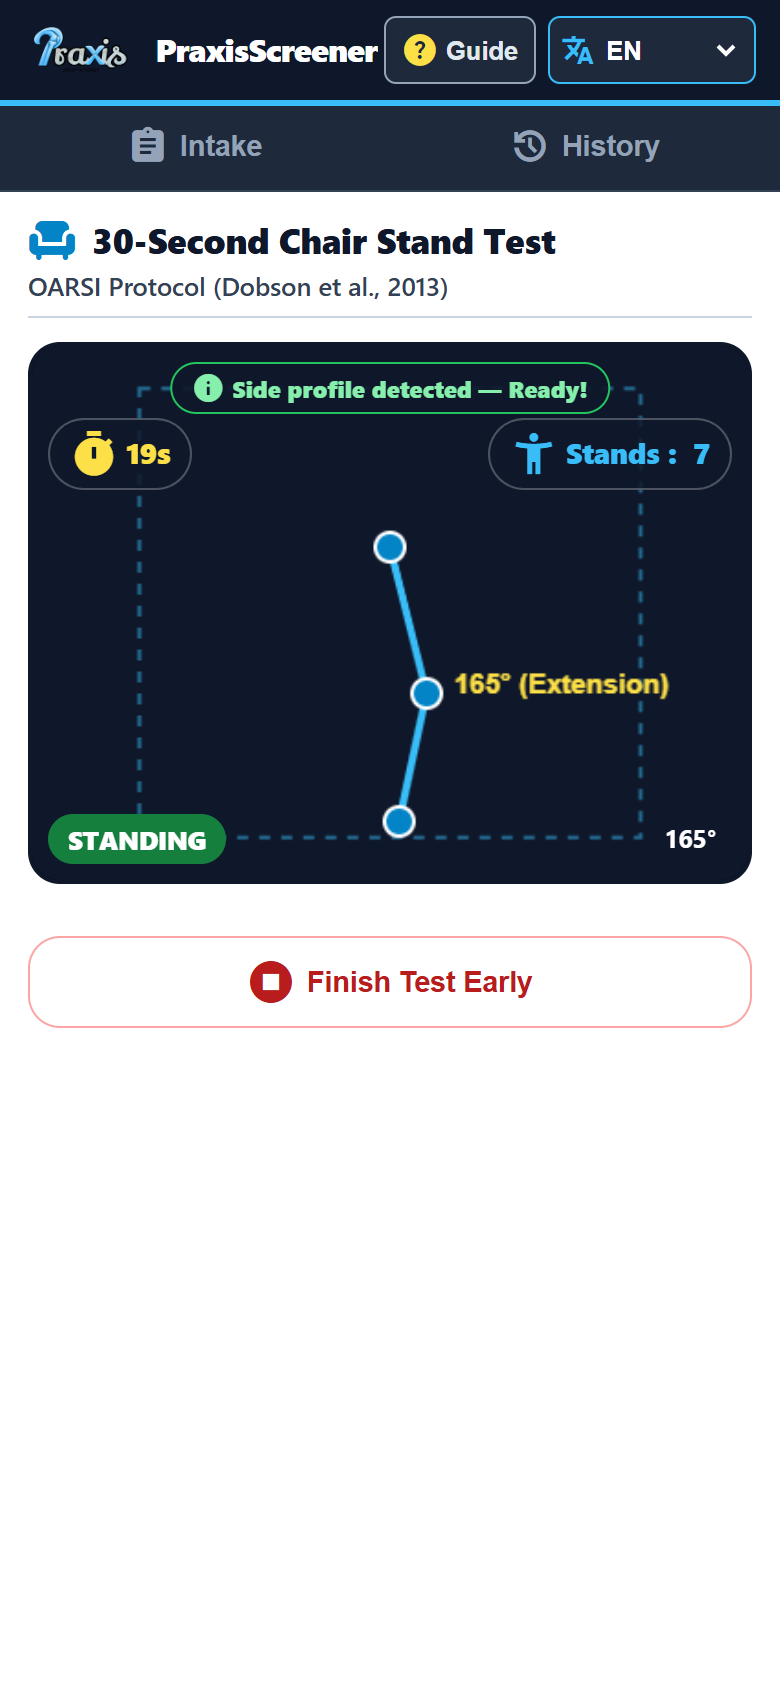
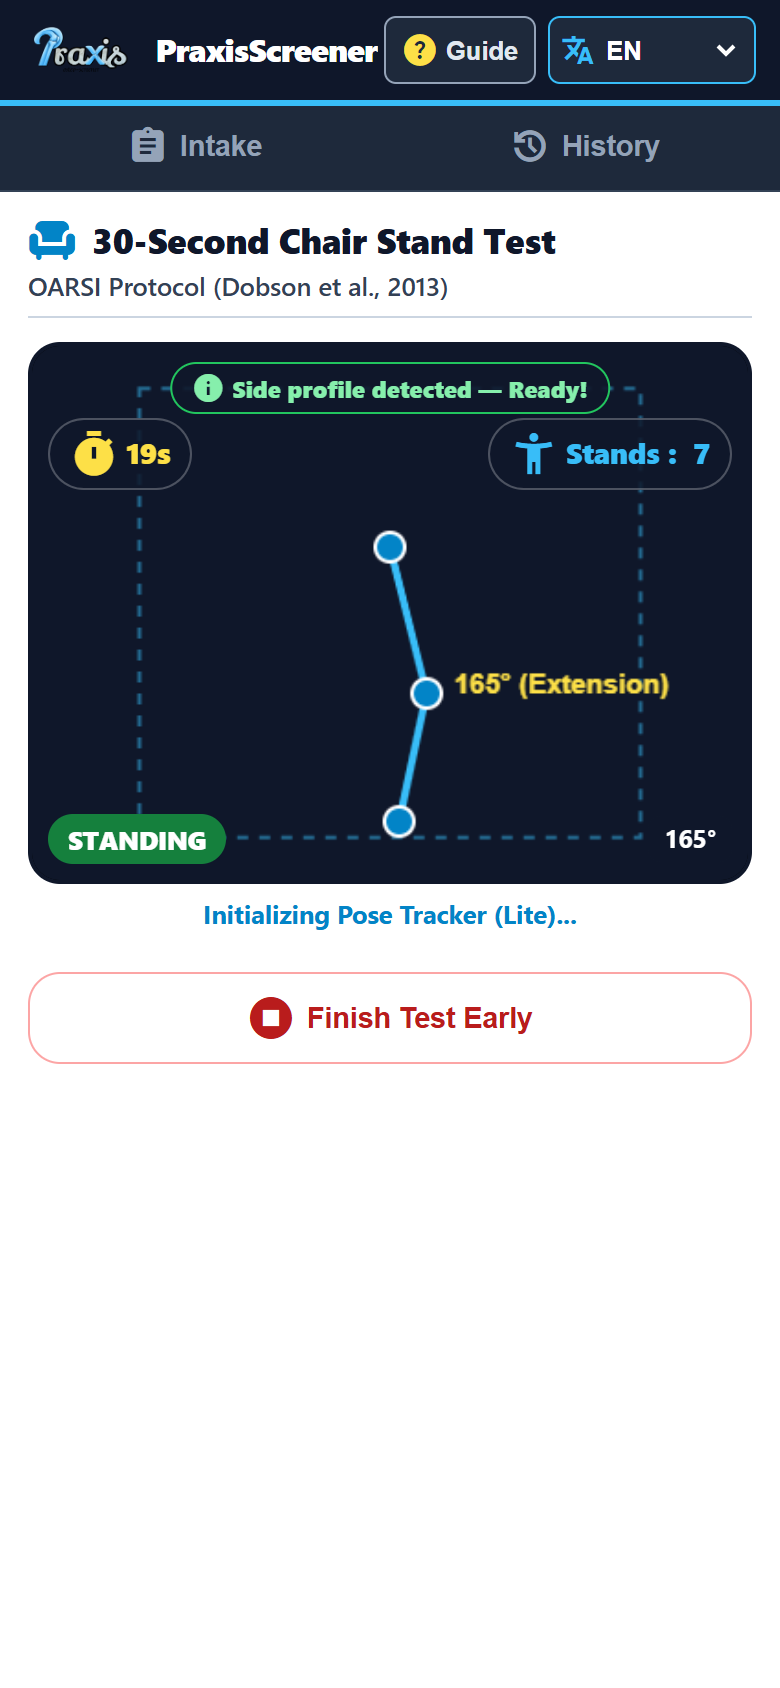
Fix MIUI and Android overlay permission block with Chrome site setting helper and native video capture fallback

diff --git a/js/translations.js b/js/translations.js
@@ -53,6 +53,15 @@ const translations = {
     btn_retry_camera: "Retry Camera",
     btn_use_demo: "Try Demo Simulation",
     
+    // MIUI / Android Bubble Overlay Error Guidance
+    miui_overlay_title: "Seeing 'Close Bubbles on Screen' Error?",
+    miui_step_1: "1. Tap the Lock 🔒 or Tune icon in Chrome's address bar",
+    miui_step_2: "2. Tap 'Permissions' > 'Camera' > Select 'Allow'",
+    miui_step_3: "3. Tap 'Retry Camera' below to start",
+    miui_bubble_tip: "Or close any floating chat heads (Messenger, WhatsApp) or MIUI Sidebar in phone Settings.",
+    btn_native_video: "Record Video with Phone Camera",
+    video_processing: "Processing recorded video...",
+    
     // Crucial Camera Angle & Shooting Guide
     shoot_guide_title: "Camera Angle & Shooting Rules",
     shoot_angle_heading: "FILM FROM THE SIDE (Lateral Profile)",
@@ -178,6 +187,15 @@ const translations = {
     btn_retry_camera: "पुनः प्रयास करें",
     btn_use_demo: "डेमो सिमुलेशन चलाएं",
     
+    // MIUI / Android Bubble Overlay Error Guidance
+    miui_overlay_title: "'Close Bubbles on Screen' त्रुटि आ रही है?",
+    miui_step_1: "1. Chrome एड्रेस बार में लॉक 🔒 या ट्यून आइकन पर टैप करें",
+    miui_step_2: "2. 'Permissions' > 'Camera' पर जाकर 'Allow' चुनें",
+    miui_step_3: "3. नीचे दिए गए 'पुनः प्रयास करें' पर टैप करें",
+    miui_bubble_tip: "या फोन सेटिंग्स में फ़्लोटिंग चैट हेड्स (Messenger, WhatsApp) या MIUI साइडबार बंद करें।",
+    btn_native_video: "फ़ोन के कैमरे से वीडियो रिकॉर्ड करें",
+    video_processing: "रिकॉर्ड किया गया वीडियो प्रोसेस हो रहा है...",
+    
     // Crucial Camera Angle & Shooting Guide
     shoot_guide_title: "कैमरा कोण और शूटिंग नियम",
     shoot_angle_heading: "साइड से वीडियो बनाएं (साइड प्रोफाइल)",
@@ -302,6 +320,15 @@ const translations = {
     camera_error_desc: "পিছৰ কেমেৰা লাভ কৰা নগল। ব্ৰাউজাৰৰ অনুমতি পৰীক্ষা কৰক।",
     btn_retry_camera: "পুনৰ চেষ্টা কৰক",
     btn_use_demo: "ডেম’ অনুৰূপ ব্যৱহাৰ কৰক",
+    
+    // MIUI / Android Bubble Overlay Error Guidance
+    miui_overlay_title: "'Close Bubbles on Screen' সমস্যা আহিছে নেকি?",
+    miui_step_1: "1. Chrome এড্ৰেছ বাৰত থকা লক 🔒 বা টিউন চিনত টেপ কৰক",
+    miui_step_2: "2. 'Permissions' > 'Camera' ত গৈ 'Allow' বাছক",
+    miui_step_3: "3. তলত দিয়া 'পুনৰ চেষ্টা কৰক' বুটামত টেপ কৰক",
+    miui_bubble_tip: "বা ফোনৰ ফ্লোটিং চ্যাট হেড (Messenger, WhatsApp) বা MIUI ছাইডবাৰ বন্ধ কৰক।",
+    btn_native_video: "ফোনৰ কেমেৰাৰে ভিডিঅ’ ৰেকৰ্ড কৰক",
+    video_processing: "ৰেকৰ্ড কৰা ভিডিঅ’ প্ৰচেছিং হৈ আছে...",
     
     // Crucial Camera Angle & Shooting Guide
     shoot_guide_title: "কেমেৰা কোণ আৰু নিৰ্দেশনা",

diff --git a/index.html b/index.html
@@ -319,7 +319,7 @@
         </div>
       </div>
 
-      <!-- Step 4: Camera Error / Retry -->
+      <!-- Step 4: Camera Error / Retry & MIUI Helper -->
       <div id="movement-step-error" class="movement-step-box hidden">
         <span class="material-symbols-outlined movement-icon-hero" style="color: #b91c1c;">no_photography</span>
         <h2 class="form-label-text" data-i18n="camera_error_title">Camera Access Issue</h2>
@@ -327,16 +327,42 @@
           Could not access the rear camera. Please verify camera permissions in browser settings.
         </p>
 
+        <!-- Dedicated MIUI / Android Bubble Overlay Resolver -->
+        <div class="miui-help-card">
+          <div class="miui-help-title">
+            <span class="material-symbols-outlined" style="color: #b91c1c; font-size: 20px;">bubble_chart</span>
+            <span data-i18n="miui_overlay_title">Seeing 'Close Bubbles on Screen' Error?</span>
+          </div>
+          <ol class="miui-steps-list">
+            <li data-i18n="miui_step_1">1. Tap the Lock 🔒 or Tune icon in Chrome's address bar</li>
+            <li data-i18n="miui_step_2">2. Tap 'Permissions' > 'Camera' > Select 'Allow'</li>
+            <li data-i18n="miui_step_3">3. Tap 'Retry Camera' below to start</li>
+          </ol>
+          <p class="miui-tip-text" data-i18n="miui_bubble_tip">
+            Or close any floating chat heads (Messenger, WhatsApp) or MIUI Sidebar in phone Settings.
+          </p>
+        </div>
+
         <div class="https-notice-box">
           <span class="material-symbols-outlined">lock</span>
           <span data-i18n="camera_https_notice">Camera access requires HTTPS or localhost on mobile phones.</span>
         </div>
+
+        <!-- Hidden Native Camera File Input (Never Blocked by Overlays) -->
+        <input type="file" id="input-native-video" accept="video/*" capture="environment" class="hidden">
 
         <div class="action-bottom-container">
           <button type="button" id="btn-retry-camera" class="btn-primary">
             <span class="material-symbols-outlined">refresh</span>
             <span data-i18n="btn_retry_camera">Retry Camera</span>
           </button>
+          
+          <!-- Native Video Fallback (Bypasses getUserMedia overlay checks completely) -->
+          <button type="button" id="btn-native-video" class="btn-primary" style="background-color: #0c4a6e; margin-top: 8px;">
+            <span class="material-symbols-outlined">video_camera_front</span>
+            <span data-i18n="btn_native_video">Record Video with Phone Camera</span>
+          </button>
+
           <button type="button" id="btn-demo-live" class="btn-secondary">
             <span class="material-symbols-outlined">smart_toy</span>
             <span data-i18n="btn_use_demo">Try Demo Simulation</span>

diff --git a/js/app.js b/js/app.js
@@ -296,29 +296,70 @@
 
   function setupMovementListeners() {
     btnEnableCam.addEventListener('click', async () => {
-      btnEnableCam.disabled = true;
       btnEnableCam.textContent = '...';
-      const success = await state.testController.startCamera();
-      btnEnableCam.disabled = false;
-      btnEnableCam.textContent = t('btn_allow_camera');
+      try {
+        const success = await state.testController.startCamera();
+        btnEnableCam.textContent = t('btn_allow_camera');
 
-      if (success) {
-        setMovementStep('instructions');
-        syncCanvasDimensions();
-      } else {
+        if (success) {
+          setMovementStep('instructions');
+          syncCanvasDimensions();
+        } else {
+          setMovementStep('error');
+        }
+      } catch (e) {
+        btnEnableCam.textContent = t('btn_allow_camera');
         setMovementStep('error');
       }
     });
 
     btnRetryCam.addEventListener('click', async () => {
-      const success = await state.testController.startCamera();
-      if (success) {
-        setMovementStep('instructions');
-        syncCanvasDimensions();
-      } else {
+      btnRetryCam.textContent = '...';
+      try {
+        const success = await state.testController.startCamera();
+        btnRetryCam.textContent = t('btn_retry_camera');
+        if (success) {
+          setMovementStep('instructions');
+          syncCanvasDimensions();
+        } else {
+          setMovementStep('error');
+        }
+      } catch (e) {
+        btnRetryCam.textContent = t('btn_retry_camera');
         setMovementStep('error');
       }
     });
+
+    // Native Camera Video Fallback (Bypasses getUserMedia overlay issues completely)
+    const btnNativeVideo = document.getElementById('btn-native-video');
+    const inputNativeVideo = document.getElementById('input-native-video');
+    if (btnNativeVideo && inputNativeVideo) {
+      btnNativeVideo.addEventListener('click', () => {
+        inputNativeVideo.click();
+      });
+
+      inputNativeVideo.addEventListener('change', async (e) => {
+        const file = e.target.files && e.target.files[0];
+        if (!file) return;
+
+        setMovementStep('live');
+        syncCanvasDimensions();
+
+        liveVideo.srcObject = null;
+        liveVideo.src = URL.createObjectURL(file);
+        liveVideo.playsInline = true;
+        liveVideo.muted = true;
+        
+        try {
+          await liveVideo.play();
+        } catch (playErr) {
+          console.warn('Video play error:', playErr);
+        }
+
+        // Start pose tracking loop on recorded video
+        state.testController.startTest(false);
+      });
+    }
 
     const triggerDemo = () => {
       setMovementStep('live');

diff --git a/css/style.css b/css/style.css
@@ -597,6 +597,45 @@ html, body {
   text-align: left;
 }
 
+/* MIUI / Android Overlay Help Card */
+.miui-help-card {
+  background-color: #fef2f2;
+  border: 2px solid #f87171;
+  border-radius: var(--radius-md);
+  padding: 10px 12px;
+  margin: 12px 0;
+  text-align: left;
+}
+
+.miui-help-title {
+  font-size: 0.92rem;
+  font-weight: 800;
+  color: #991b1b;
+  display: flex;
+  align-items: center;
+  gap: 6px;
+  margin-bottom: 6px;
+}
+
+.miui-steps-list {
+  list-style: none;
+  display: flex;
+  flex-direction: column;
+  gap: 4px;
+  font-size: 0.82rem;
+  font-weight: 700;
+  color: #7f1d1d;
+  padding-left: 2px;
+}
+
+.miui-tip-text {
+  font-size: 0.78rem;
+  color: #57534e;
+  font-weight: 600;
+  margin-top: 6px;
+  line-height: 1.3;
+}
+
 /* ==========================================================================
    LIVE TEST HUD & FEEDBACK
    ========================================================================== */
